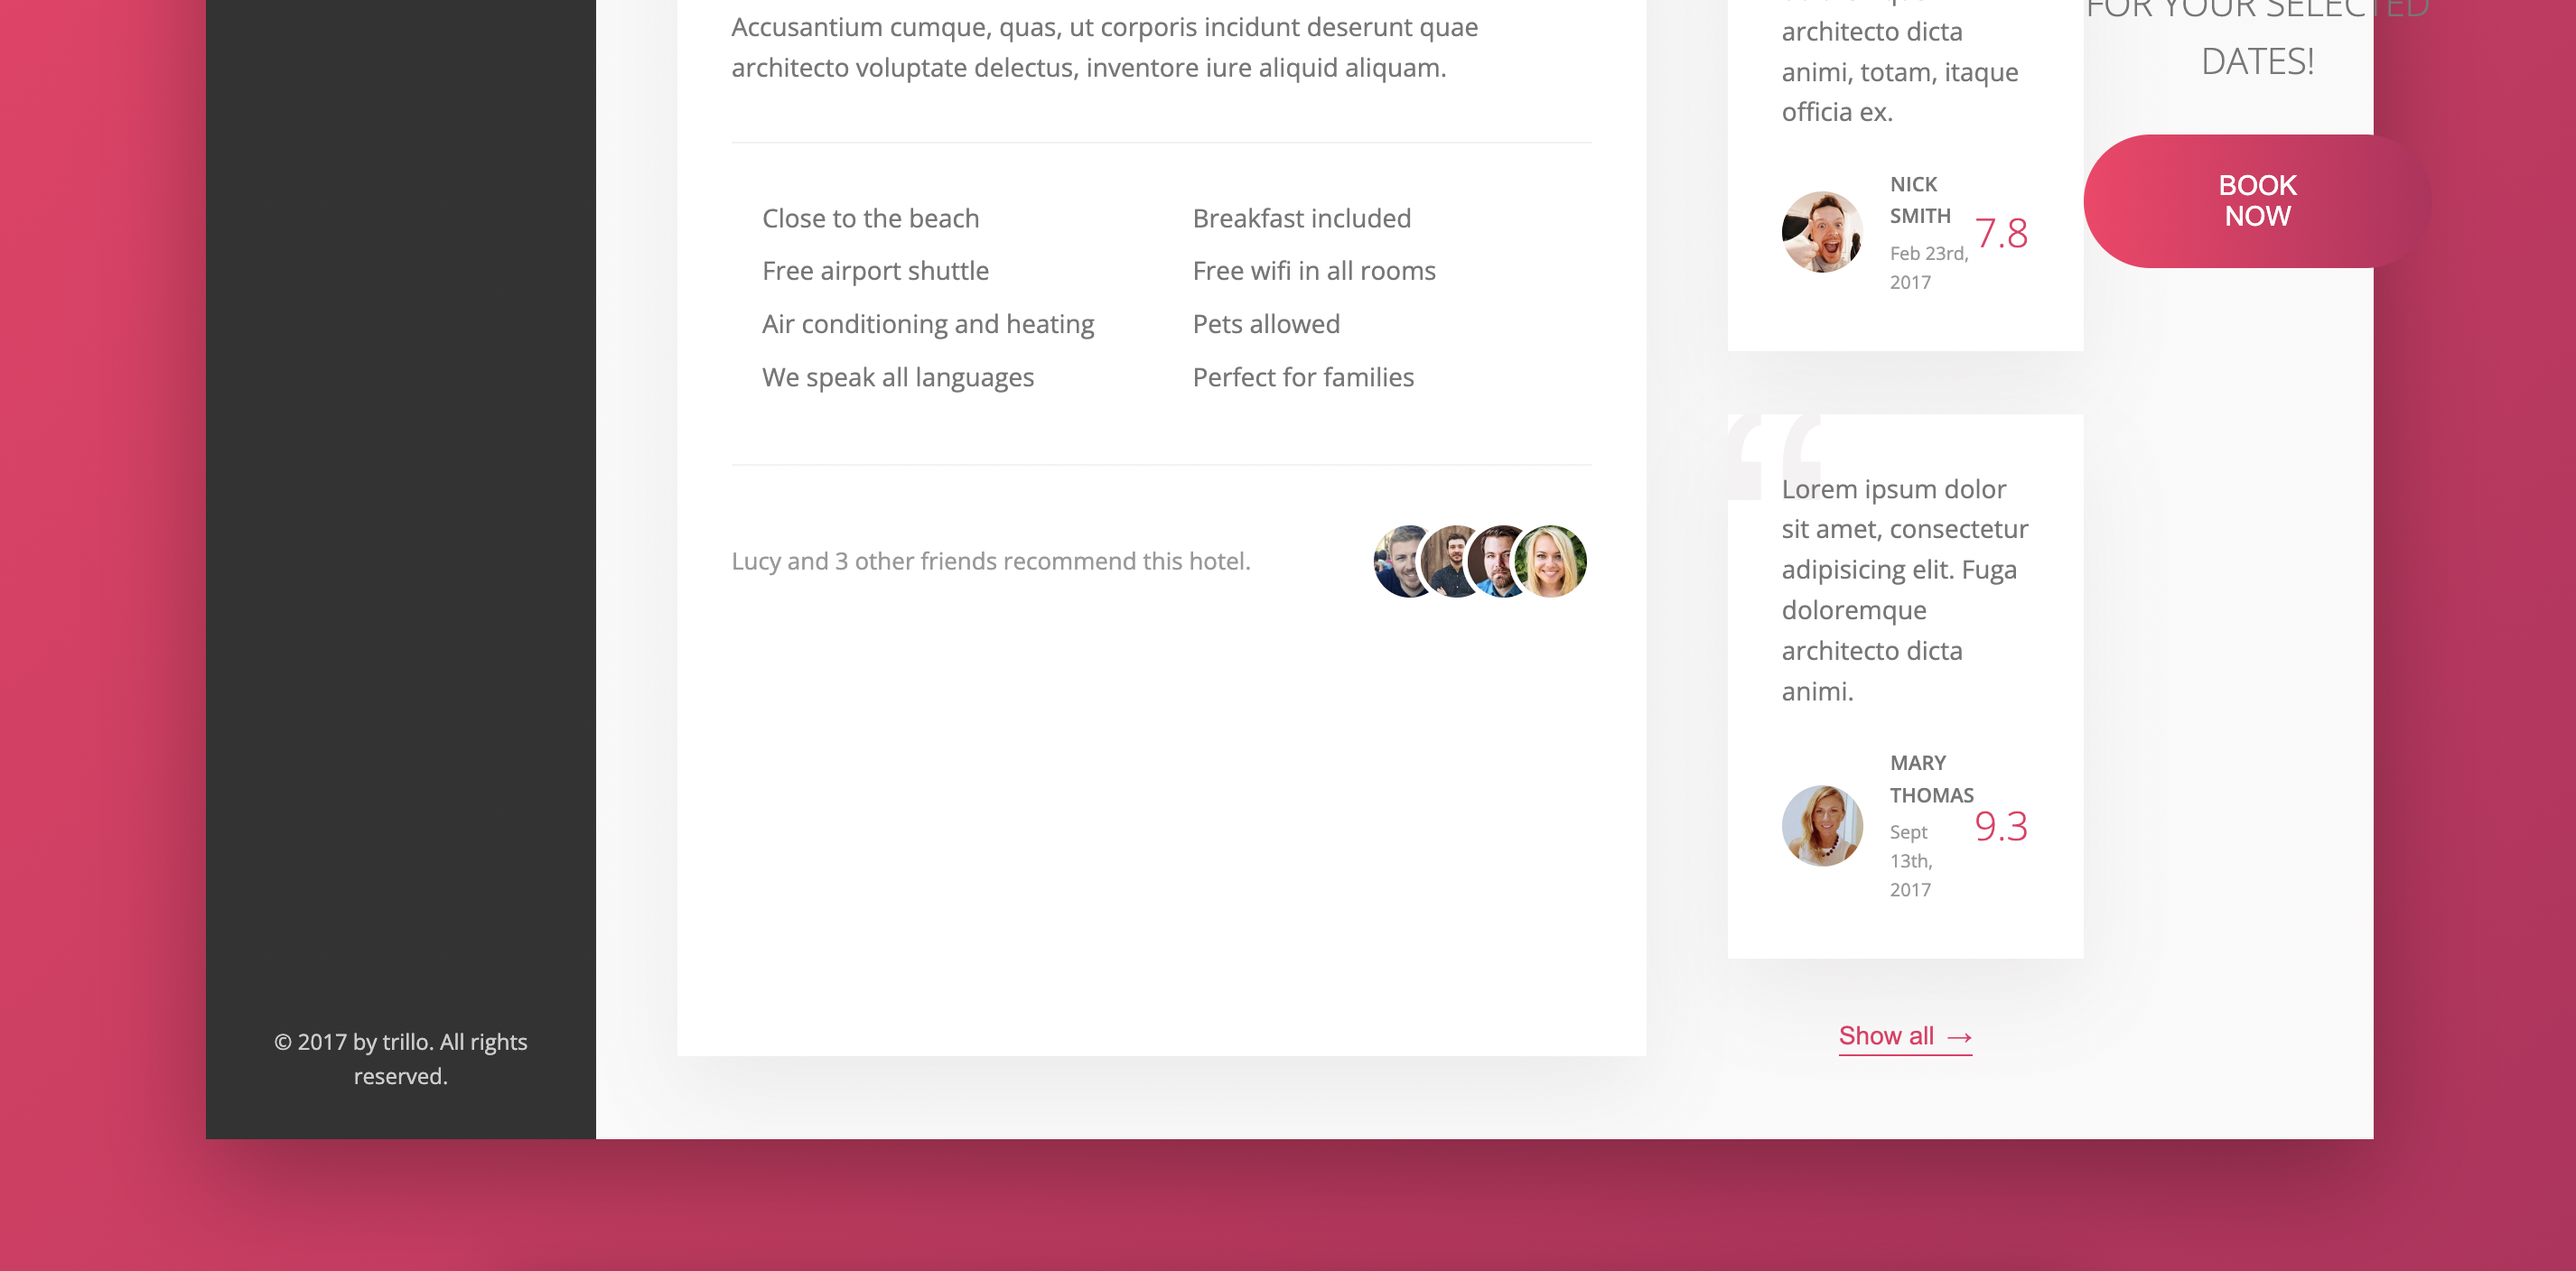
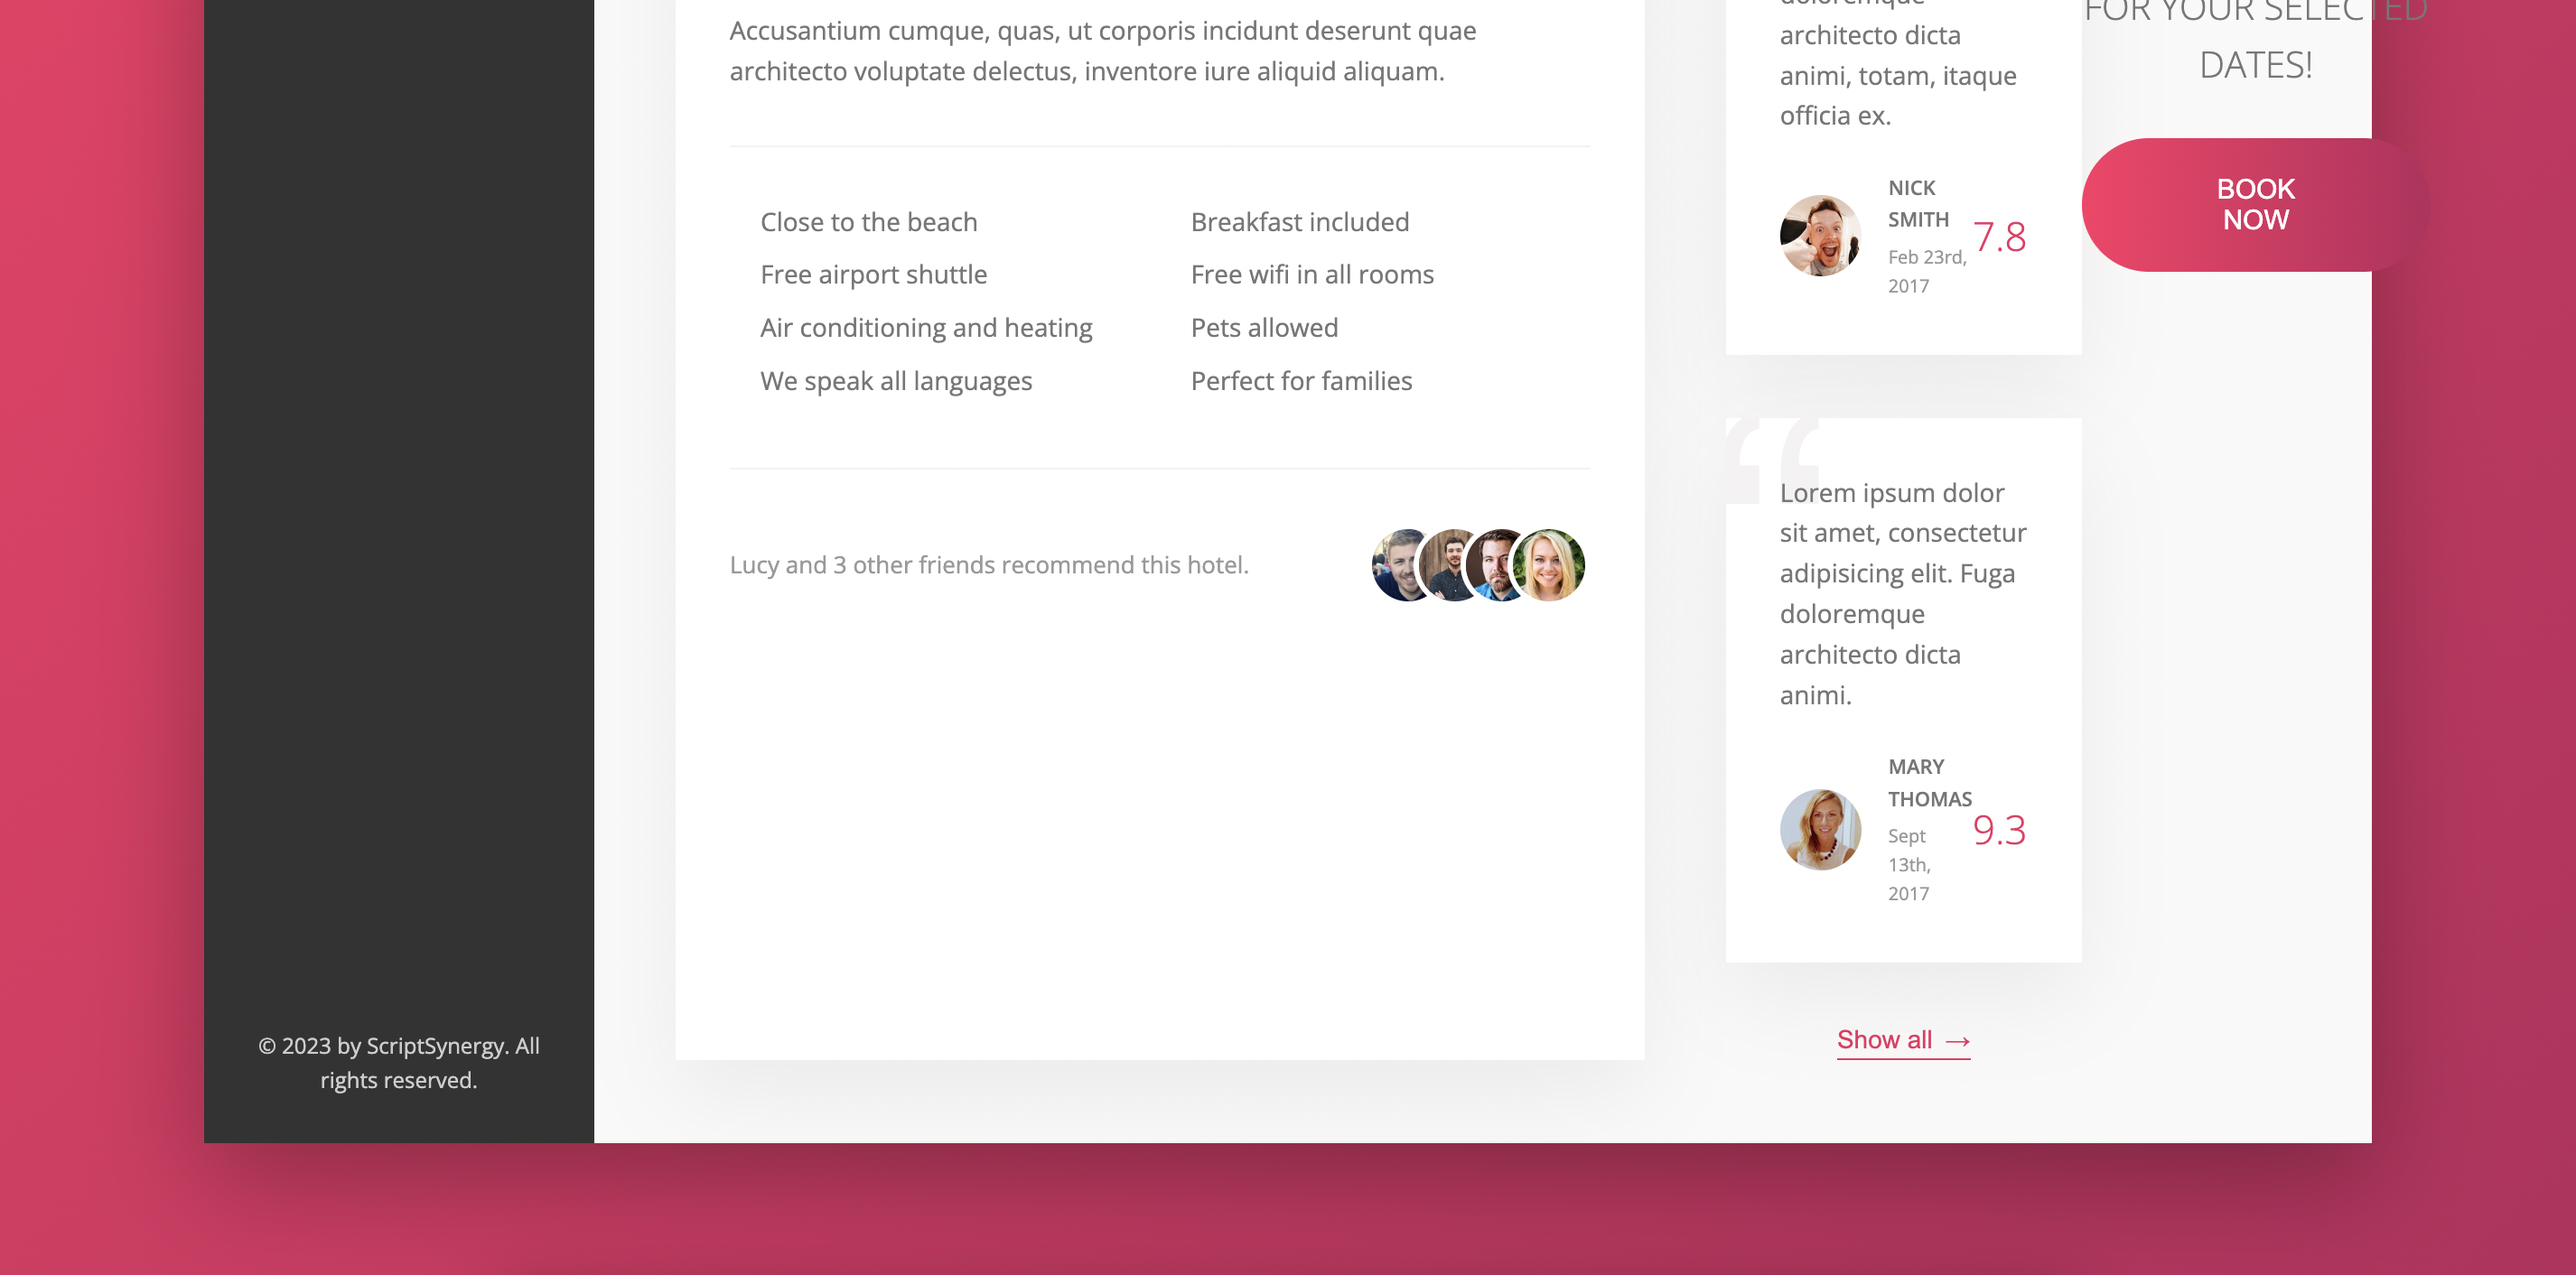
commit

diff --git a/index.html b/index.html
@@ -69,7 +69,9 @@
             </li>
           </ul>
 
-          <div class="legal">&copy; 2017 by trillo. All rights reserved.</div>
+          <div class="legal">
+            &copy; 2023 by ScriptSynergy. All rights reserved.
+          </div>
         </nav>
 
         <main class="hotel-view">
